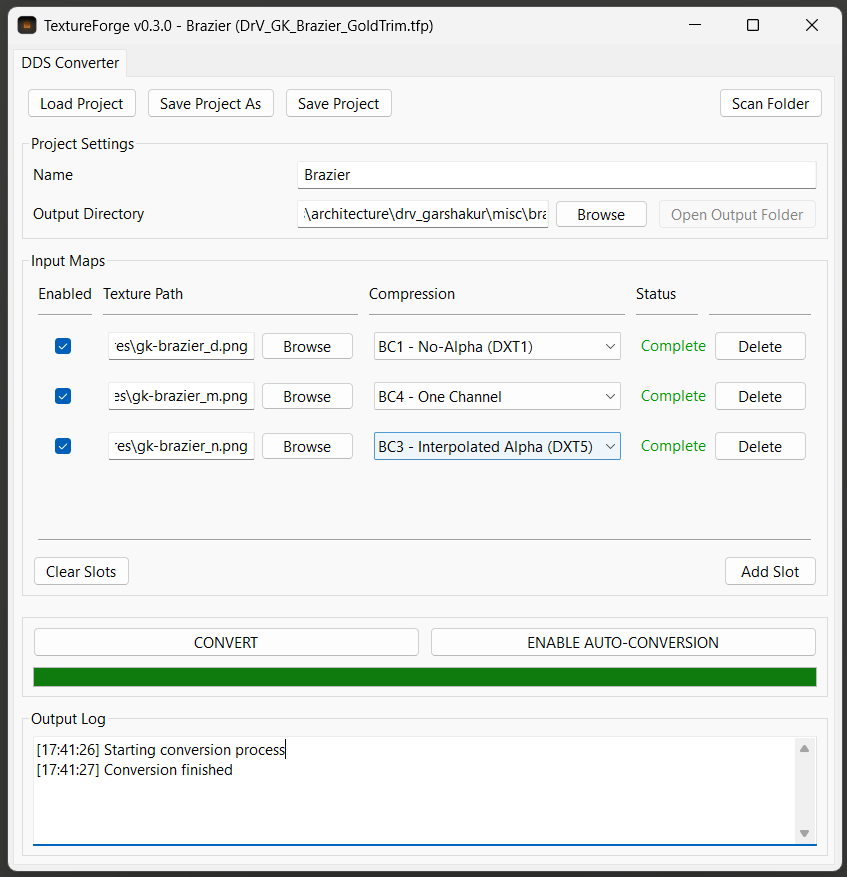
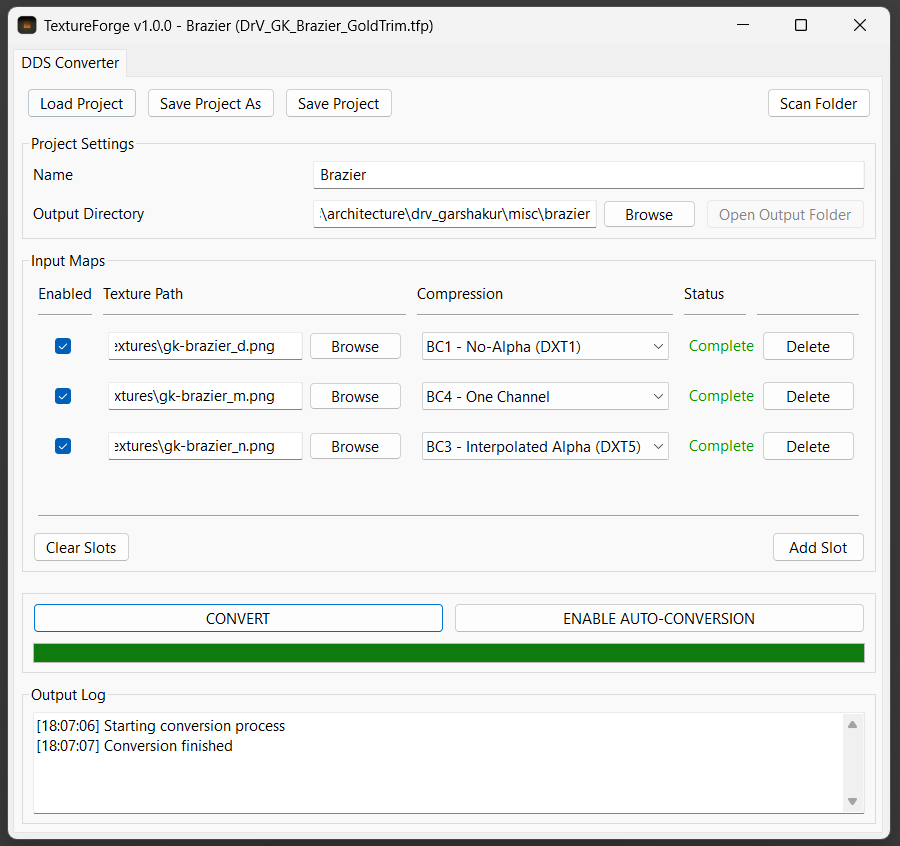
BVN: v1.0.0 release

diff --git a/textureforge/__init__.py b/textureforge/__init__.py
@@ -13,7 +13,7 @@ from .gui import TextureForgeGUI
 # ===================================================================================================
 # Properties
 # ===================================================================================================
-VERSION = "0.3.0"
+VERSION = "1.0.0"
 AUTHOR = "Altire"
 
 # ===================================================================================================
